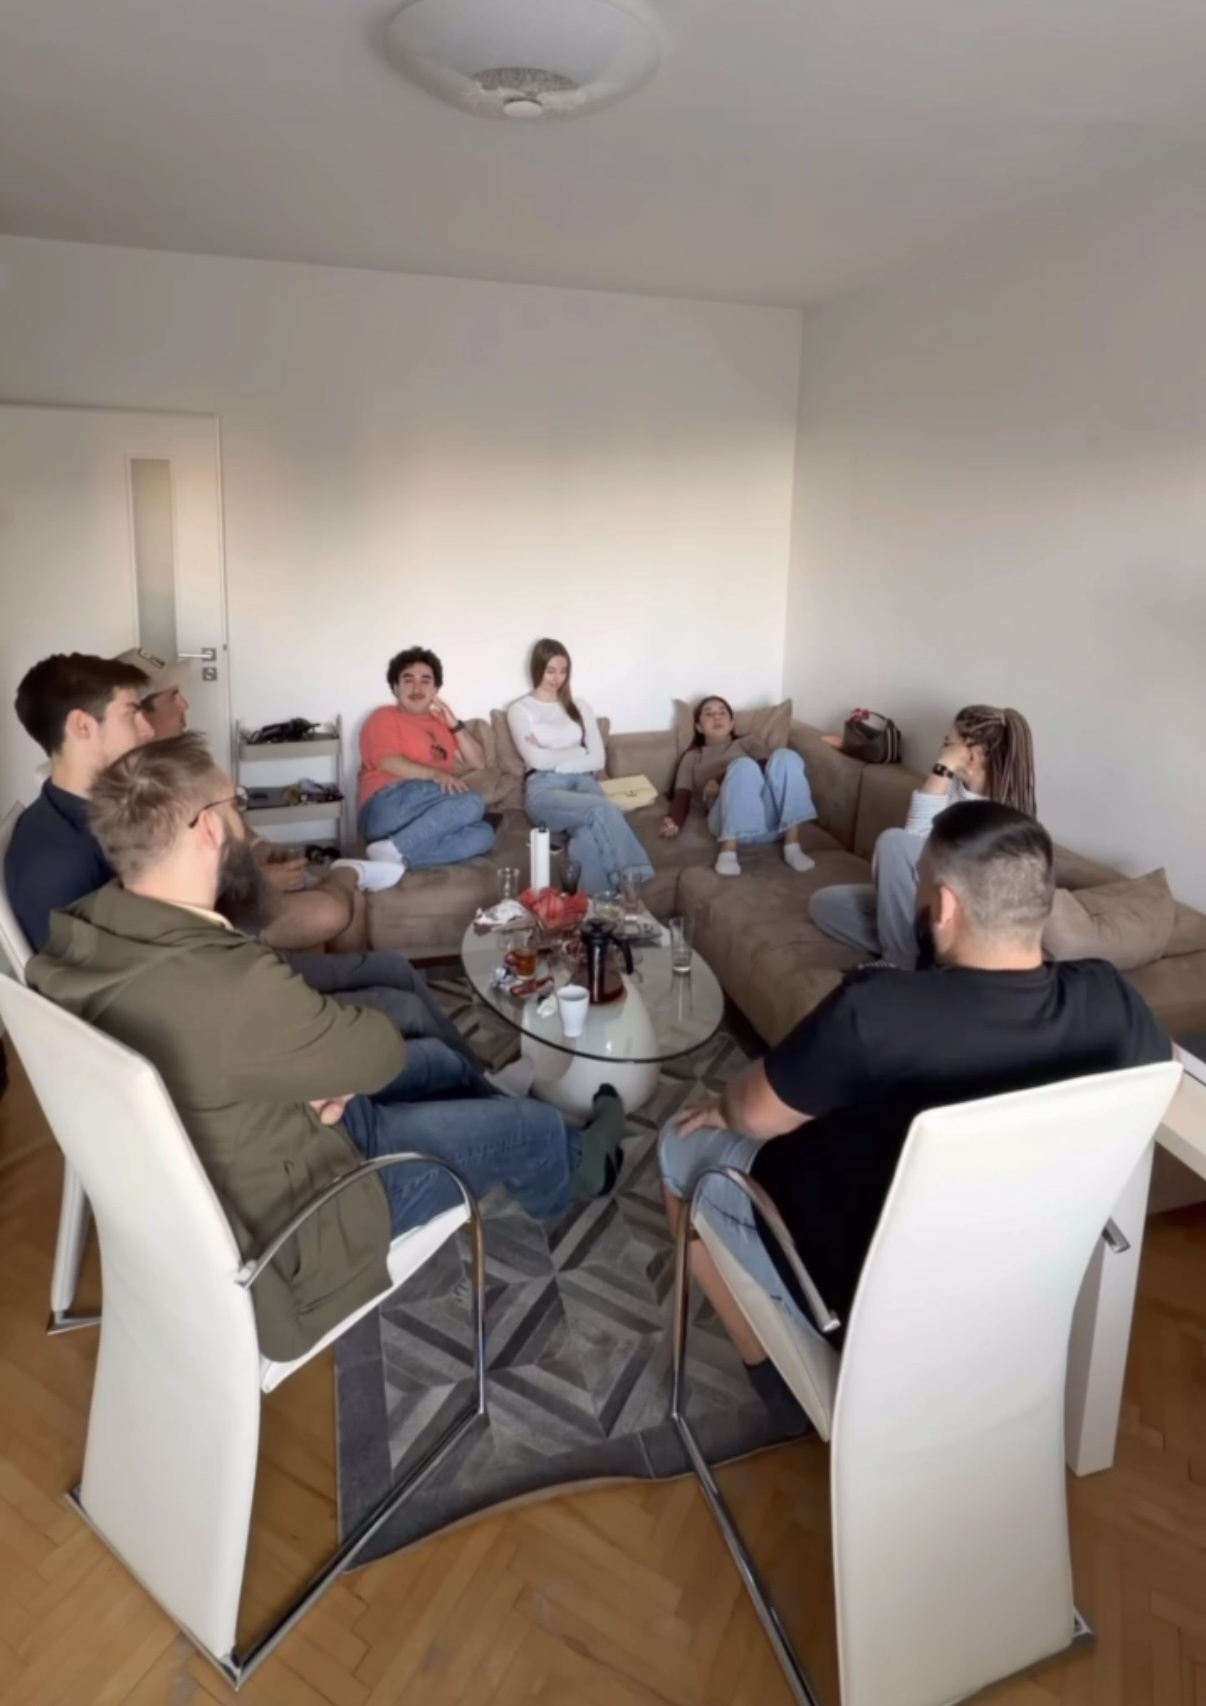
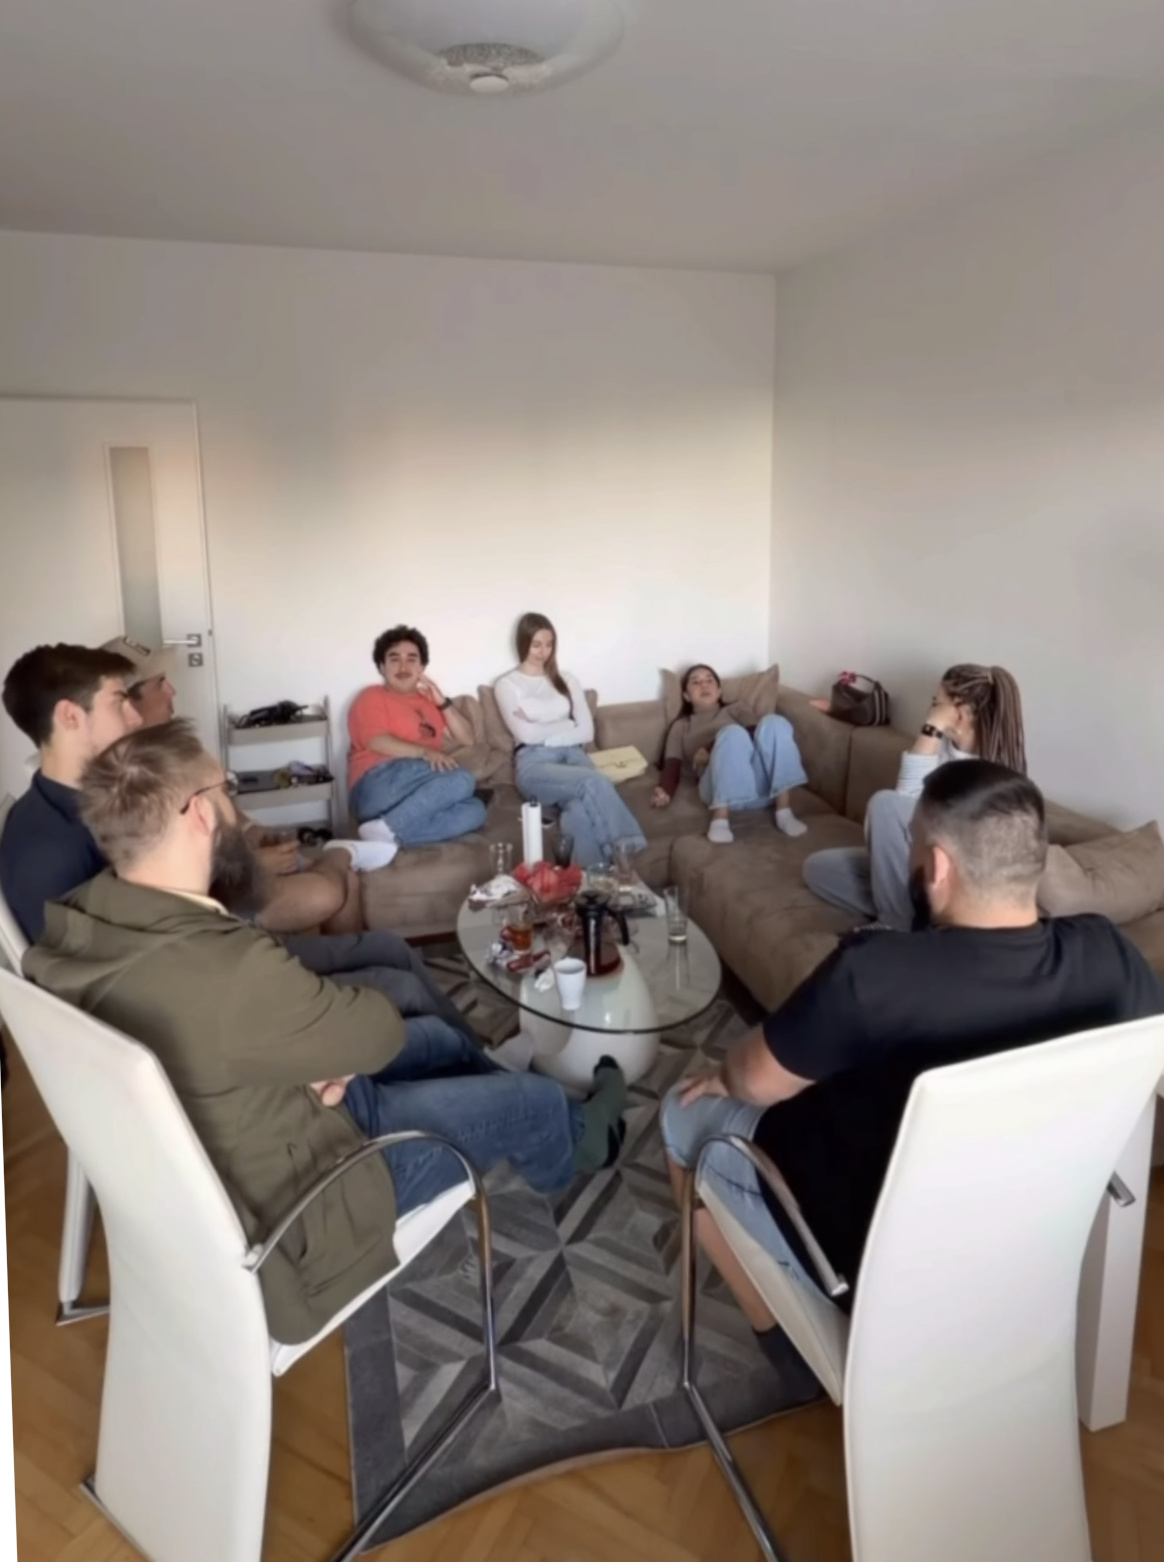
feat: update service ministry image

diff --git a/src/partials/ministry.html b/src/partials/ministry.html
@@ -13,7 +13,7 @@
       </div>
       <div class="swiper-slide">
         <div class="card">
-          <img src="/assets/contacts/sunday-service.jpg" alt="Недільні служіння" data-i18n-alt="ministry.services" loading="lazy" decoding="async" />
+          <img src="/assets/contacts/weekly-seervice.jpg" alt="Недільні служіння" data-i18n-alt="ministry.services" loading="lazy" decoding="async" />
           <div class="card-overlay"><h3 data-i18n="ministry.services">Недільні служіння</h3></div>
         </div>
       </div>
